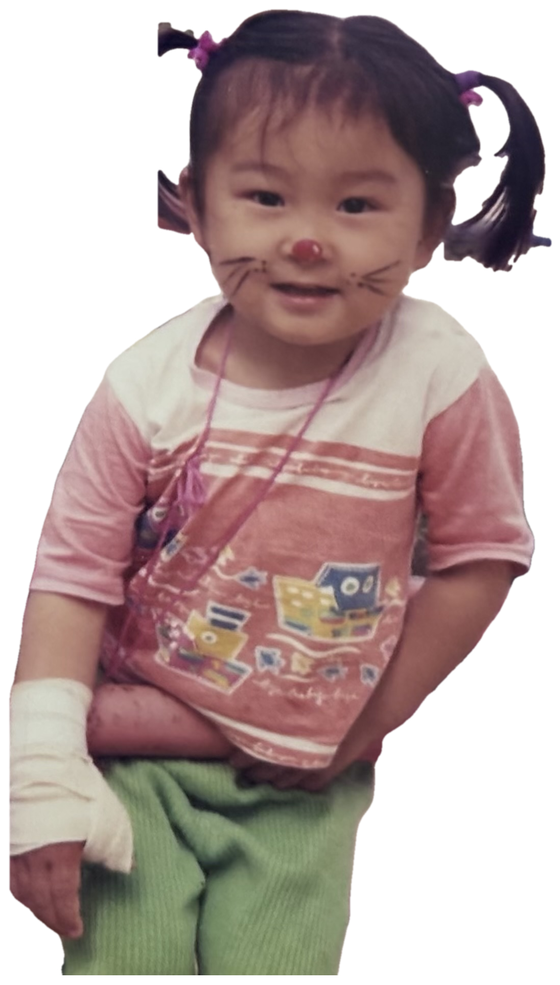
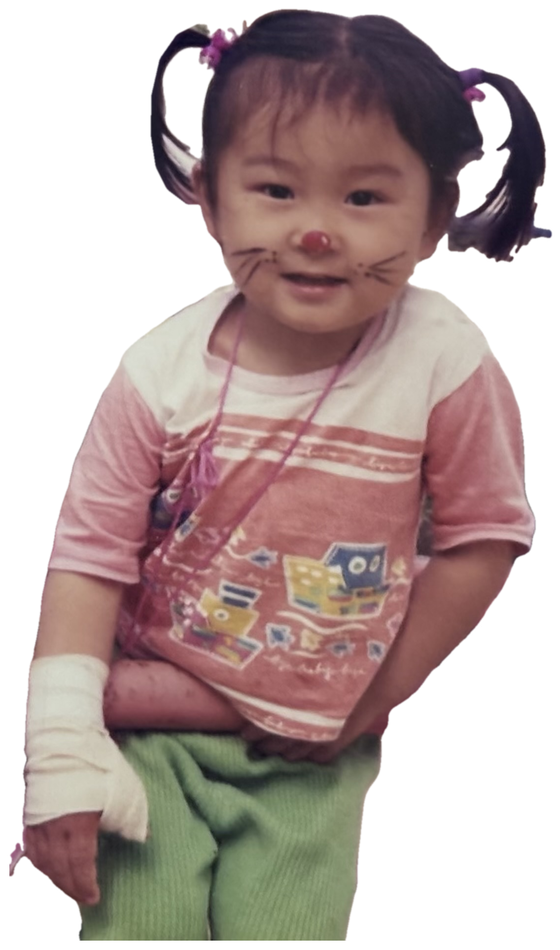
v5: restore 가영 sticker's left pigtail
Claude-Session: https://claude.ai/code/session_0199kwzThmkJ9gjgMp94kiiT

diff --git a/v5/index.html b/v5/index.html
@@ -581,7 +581,7 @@ html.rv-on .rv.in { opacity: 1; transform: none; }
       </figure>
       <div class="fam-kids">
         <picture class="fam-kid kid-l"><source srcset="f/gy3.webp" type="image/webp"><img src="f/gy3.png" alt="어린 시절의 가영" width="560" height="738" loading="lazy" decoding="async"></picture>
-        <picture class="fam-kid kid2 kid-r"><source srcset="f/gy2.webp" type="image/webp"><img src="f/gy2.png" alt="고양이 분장을 한 어린 가영" width="560" height="985" loading="lazy" decoding="async"></picture>
+        <picture class="fam-kid kid2 kid-r"><source srcset="f/gy2.webp?v=2" type="image/webp"><img src="f/gy2.png?v=2" alt="고양이 분장을 한 어린 가영" width="560" height="950" loading="lazy" decoding="async"></picture>
       </div>
       <div class="fam-letters">
         <article class="pletter pletter-hand">
@@ -961,7 +961,7 @@ html.rv-on .rv.in { opacity: 1; transform: none; }
 (function () {
   /* ▼ 여기만 바꾸면 됩니다 ▼ */
   var KAKAO_JS_KEY = '1e75ce76e7372491e4b502ebba8c8f0d';
-  var VER          = '11081845';   // 업데이트할 때마다 바뀌는 번호 — 카톡이 예전 페이지를 다시 보여주지 않게
+  var VER          = '11081852';   // 업데이트할 때마다 바뀌는 번호 — 카톡이 예전 페이지를 다시 보여주지 않게
   var SITE_URL     = 'https://hsjeong14.github.io/wedding/v5/?v=' + VER;          // 청첩장 주소
   var MAP_URL      = 'https://hsjeong14.github.io/wedding/v5/?v=' + VER + '#location'; // '식장 위치 보기'가 열 주소
   var IMAGE_URL    = 'https://hsjeong14.github.io/wedding/share-v5.jpg';  // 900 x 1200 (3:4) 세로 썸네일
